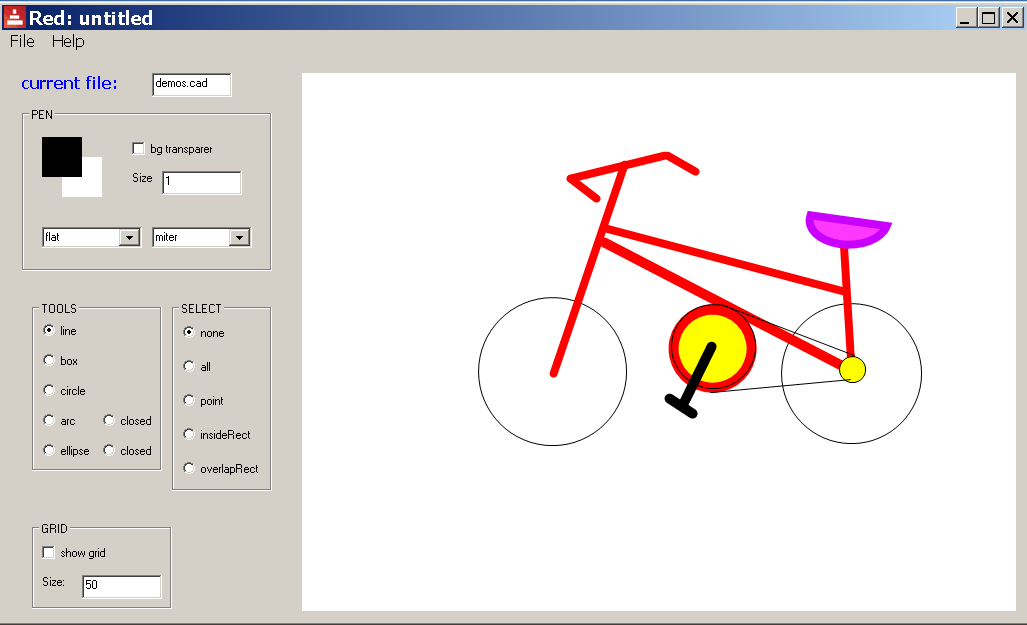
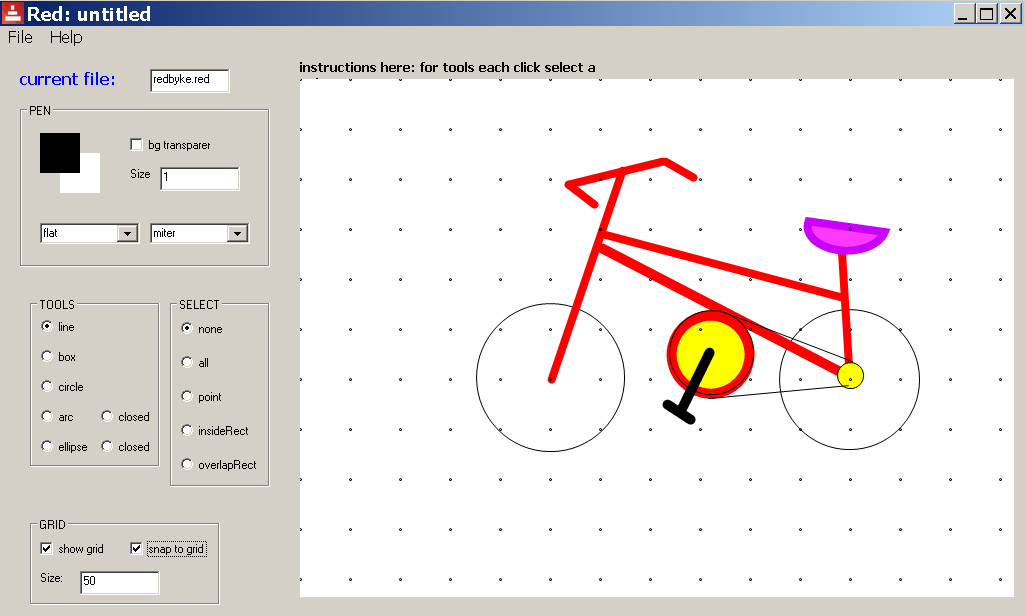
minor & new screen shot

diff --git a/README.md b/README.md
@@ -13,6 +13,11 @@ Start REPL then type:
 or if you want a gui   
 ```do read https://raw.githubusercontent.com/nodrygo/DemosRed/master/demosGuiRunner.red```
 
+### unfinished simpleCAD demo
+
+A lot of good CAD already exist so this demo is only to learn Red and nothing else.    
+basic [screen shot](https://github.com/nodrygo/DemosRed/blob/master/simpleCAD/images/redbicycle.png)
+
 ### Why 
 
 I am leaning Red and those demos help me on this process *\(and may help you \:\-\) \)*
